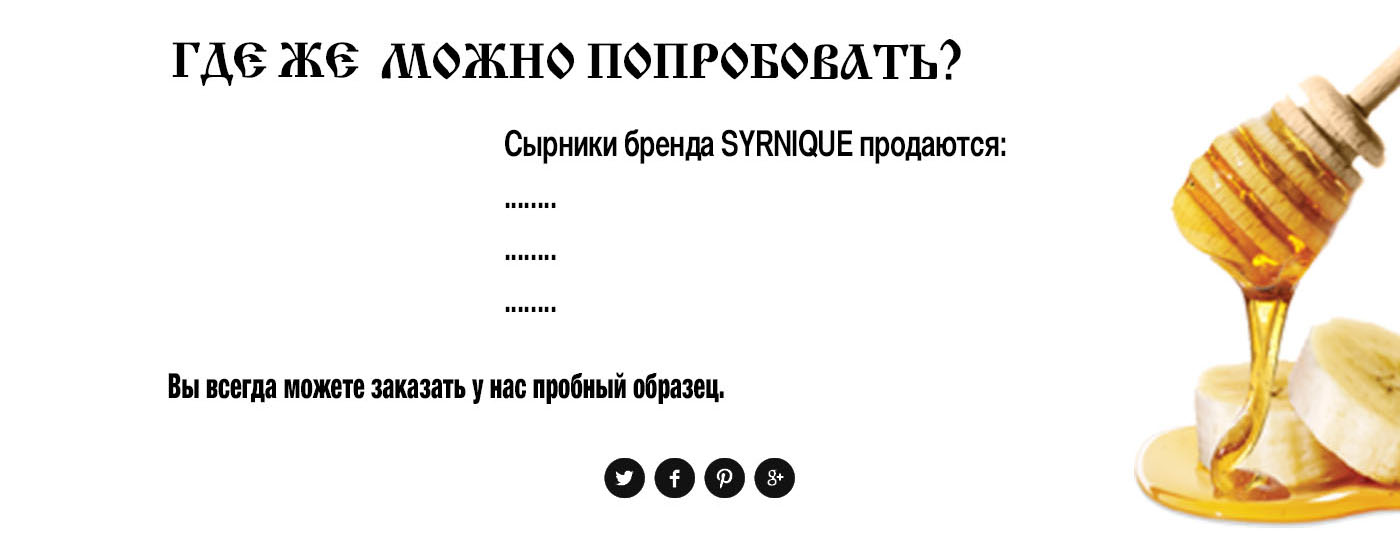
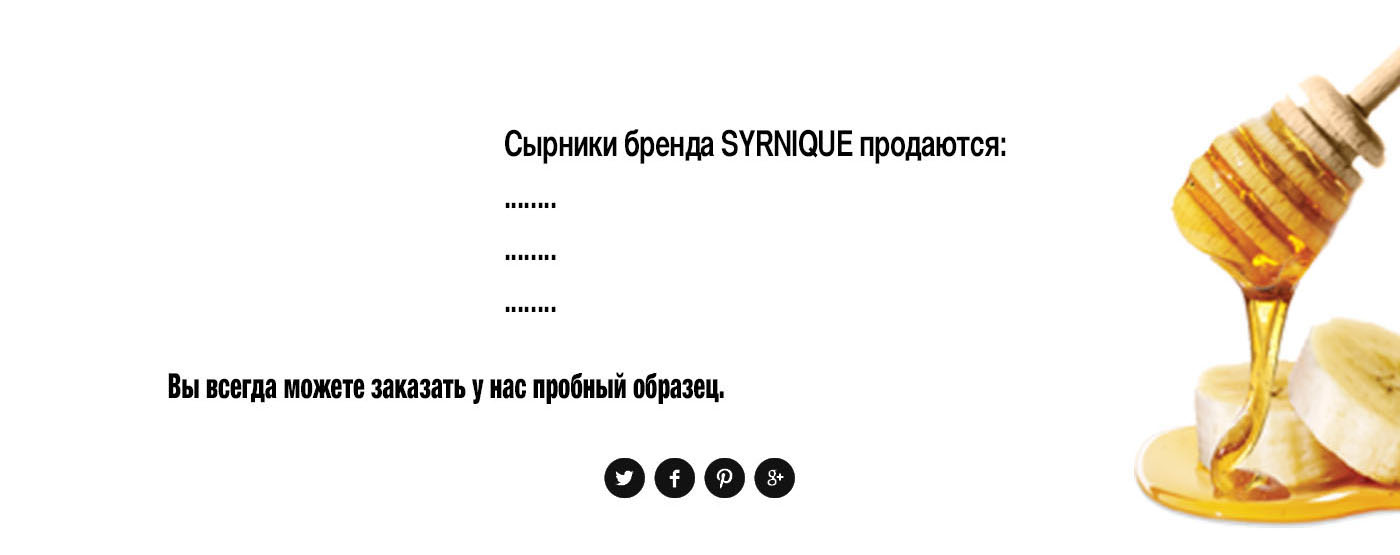
V. 0.15

Changed region(s): [[0.1229, 0.0613, 0.7064, 0.1532]]

diff --git a/index.html b/index.html
@@ -155,7 +155,7 @@
     <section id="third-section" class="third-section">
         <div class="container">
             <div class="row">
-                <div class="col-lg-12">
+                <div class="col-lg-12 col-sm-offset-1">
                     <h1>Зачем нам сырники?</h1>
                     <h2>Наш холодильник с сырниками может пригодиться, если у вас:</h2>
                 </div>
@@ -233,7 +233,11 @@
         <div class="container">
             <div class="row">
                 <div class="col-lg-12">
-                    <h1></h1>
+                    <h1>Как выглядят эти сырники?</h1>
+                    <h3 class="col-sm-offset-3">Фирменные холодильники с сырниками Syrnique удобны и компактны: они идеально вписываются в интерьер любого кафе, бизнес-центра, фитнес-клуба и даже книжного магазина.</h3>
+                    <a class="btn btn-default col-sm-offset-0" href="https://www.google.ru">Подробнее!</a>
+
+                    <h3></h3>
                 </div>
             </div>
         </div>
@@ -243,7 +247,13 @@
         <div class="container">
             <div class="row">
                 <div class="col-lg-12">
-                    <h1></h1>
+                    <h1>Где же можно попробовать?</h1>
+                    <h3>Сырники бренда Syrnique продаются...</h3>
+                    <ul>
+                      <li>...</li>
+                      <li>...</li>
+                      <li>...</li>
+                    </ul>
                 </div>
             </div>
         </div>

diff --git a/css/scrolling-nav.css b/css/scrolling-nav.css
@@ -47,27 +47,37 @@ of those sections to manage the look and feel of the site. */
 
     
 #intro-section {
-    background: #fff url('/img/1.jpg') no-repeat scroll center top;
+    padding-top: 150px;
+    background: #fff url('/img/1.jpg') no-repeat;
     background-size: cover;
+    height: 100%;
 }
 #second-section {
-    background: #fff url('/img/2.jpg');
+    background: #fff url('/img/2.jpg') no-repeat;
     padding-top: 50px;
     height: 170%;
-    background-repeat:no-repeat;
     background-size: cover;
 }
 
 #third-section {
+    padding-top: 150px;
+    height: 100%;
     background: #fff url('/img/3.jpg') no-repeat;
     background-size: cover;
 
 }
 
 #fourth-section {
-    background: #fff url('/img/4.jpg');
+    padding-top: 50px;
+    height: 100%;
+    background: #fff url('/img/4.jpg') no-repeat;
+    background-size: cover;
 }
 
 #fifth-section {
-    background: #fff url('/img/5.jpg');
+    padding-top: 50px;
+    background: #fff url('/img/5.jpg') no-repeat;
+    background-size: cover;
+    height: 100%;
+
 }
